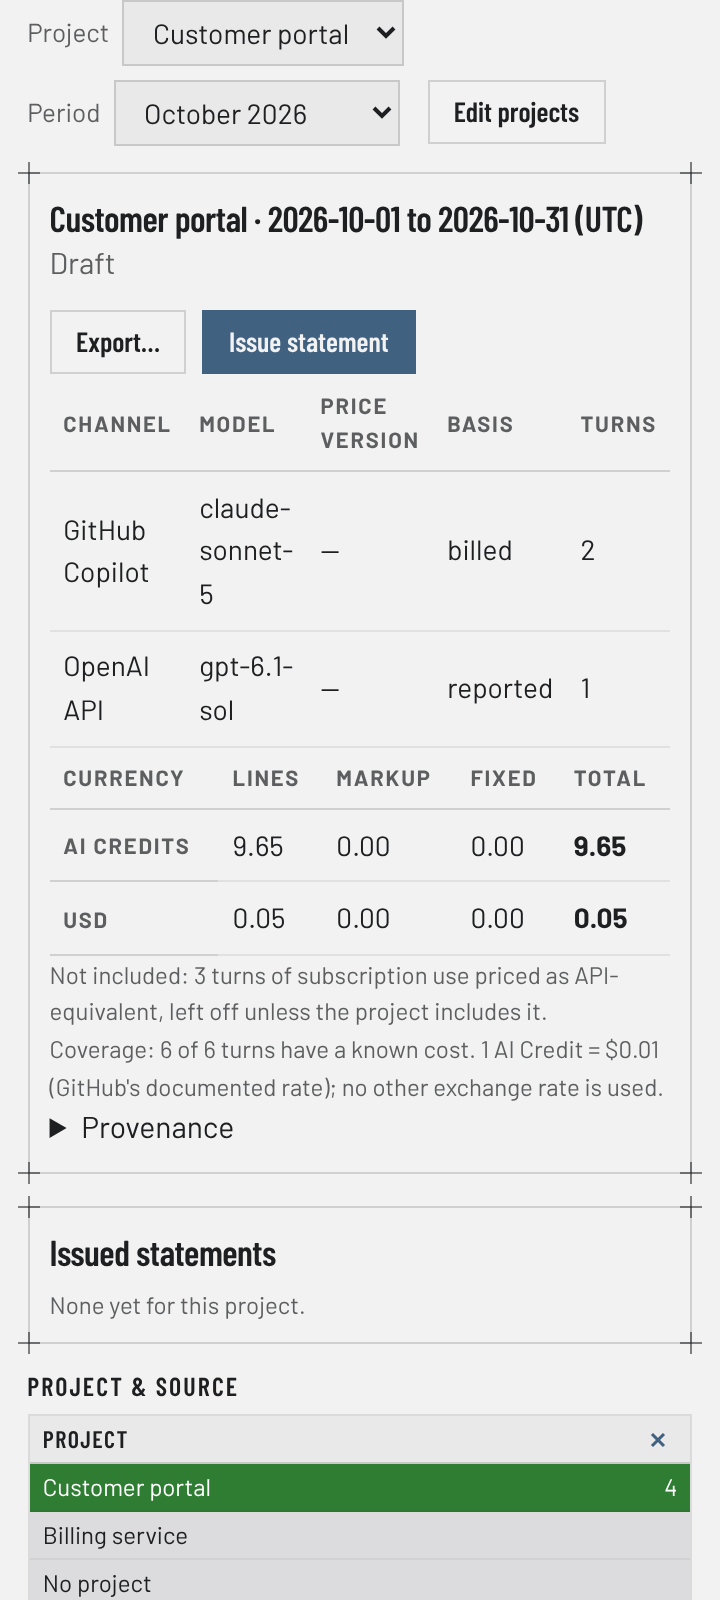
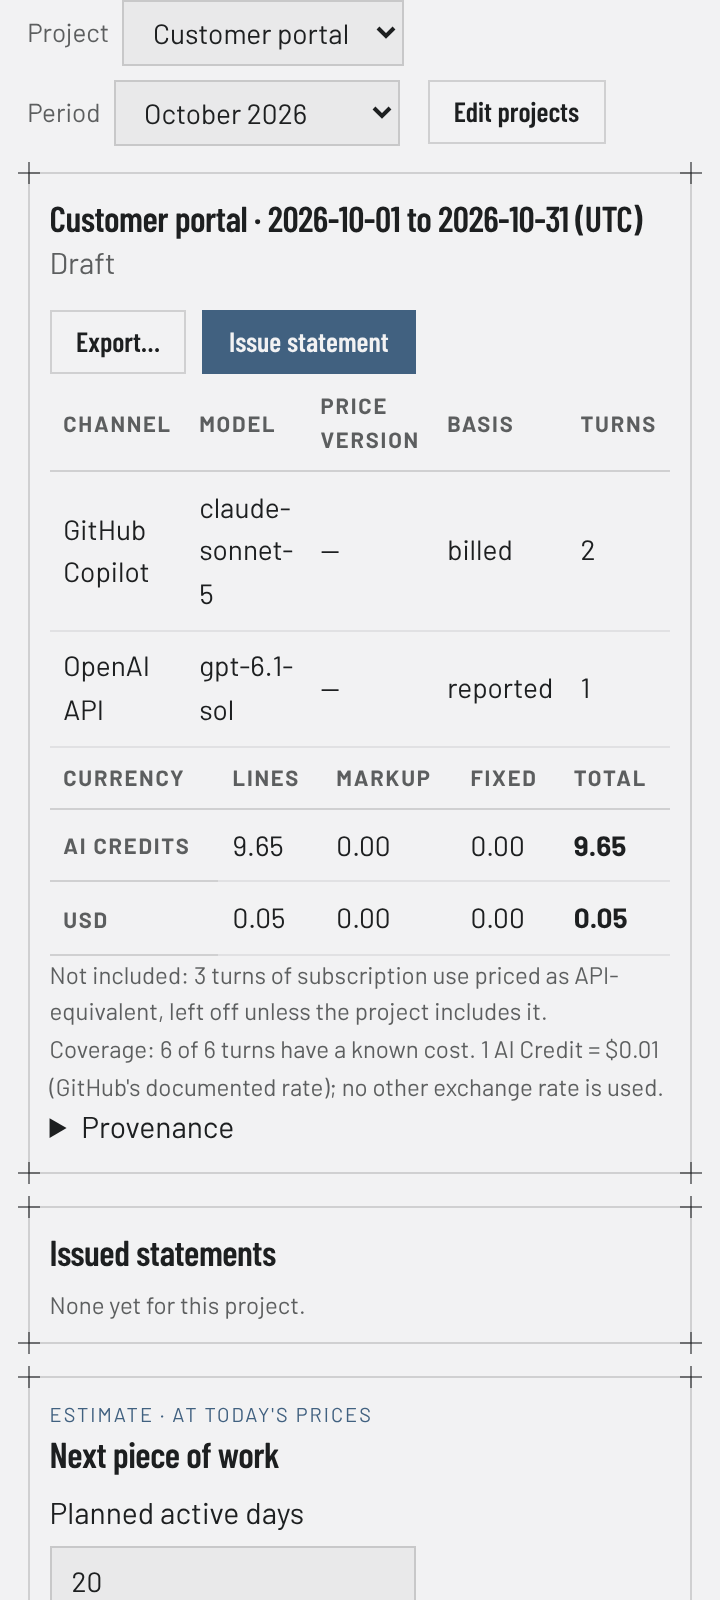
docs: step 15.12 screenshots and UI-check result
guide-dashboard-estimate.png, and the guide's other Dashboard shots
regenerated now that the fixture has a Mobile app project (the Cost over
time alt text says three projects). The whole UI check passes: 357
checks, none failing.

Claude-Session: https://claude.ai/code/session_01PVQRZYo1RY71mogK2GLGNu

Changed region(s): [[0.0306, 0.8438, 0.9778, 1.0]]

diff --git a/docs/UserGuide.md b/docs/UserGuide.md
@@ -561,7 +561,7 @@ the view says so. Totals use each turn's preferred basis (billed, then
 reported, then priced) unless the Overview's **Cost basis** switch picks
 one.
 
-![Cost over time for two projects and the No project bucket: the filter row, KPI tiles with coverage, lines with a direct label at each end, unknown weeks drawn as gaps, and a price-change tag with its tooltip](images/guide-dashboard-cost-over-time.png)
+![Cost over time for three projects and the No project bucket: the filter row, KPI tiles with coverage, lines with a direct label at each end, unknown weeks drawn as gaps, and a price-change tag with its tooltip](images/guide-dashboard-cost-over-time.png)
 
 **Cost over time** shows:
 

diff --git a/docs/plans/cost-by-repository-and-project.md b/docs/plans/cost-by-repository-and-project.md
@@ -1977,7 +1977,7 @@ model waits for Phase 14) and D18 (no range under 5 known units) are in §13.
   retry (it failed once in a full run and not in 32 reruns, so the cause
   wasn't found; a one-shot read of a table that may still be rendering was
   the only race in it). The UI check gains `dashboard-billing-estimate`
-  (12 combinations), and the whole check passes (UI_CHECK_RESULT).
+  (12 combinations), and the whole check passes (357 checks, none failing).
   Screenshot: `guide-dashboard-estimate.png`.
 - **Found and fixed by the checks**: in the side column the drawing scaled
   its labels down until they couldn't be read, and a narrow range drew p50
